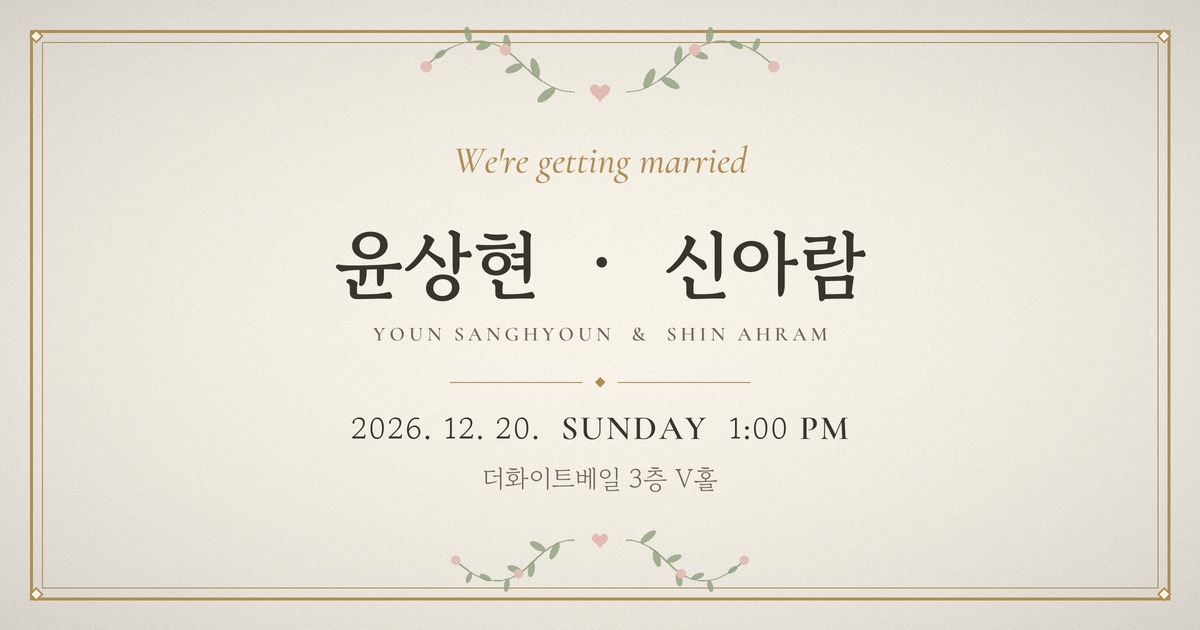
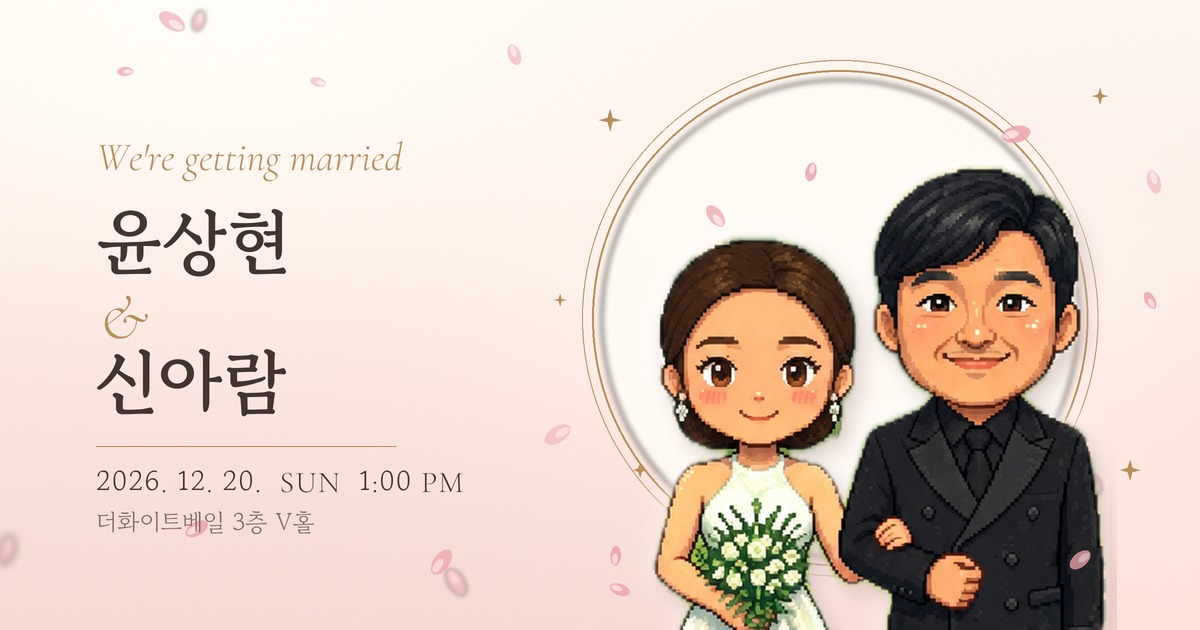
💐 대표 주소 공유 썸네일: 봄빛 블러시 배경 + 신랑·신부 상반신(피사체 분리) + 세리프 타이포

diff --git a/index.html b/index.html
@@ -9,10 +9,10 @@
     <meta property="og:type" content="website">
     <meta property="og:title" content="윤상현 ♥ 신아람 결혼합니다">
     <meta property="og:description" content="2026.12.20 (일) 오후 1시 · 더화이트베일 3층 V홀">
-    <meta property="og:image" content="https://wedding-invitation-new-delta.vercel.app/images/og-main.jpg?v=1">
+    <meta property="og:image" content="https://wedding-invitation-new-delta.vercel.app/images/og-main.jpg?v=2">
     <meta property="og:image:width" content="1200">
     <meta property="og:image:height" content="630">
-    <meta property="og:image:alt" content="We're getting married · 윤상현 · 신아람 · 2026. 12. 20. SUNDAY 1:00 PM · 더화이트베일 3층 V홀">
+    <meta property="og:image:alt" content="We're getting married · 윤상현 &amp; 신아람 · 2026. 12. 20. SUN 1:00 PM · 더화이트베일 3층 V홀">
     <meta name="twitter:card" content="summary_large_image">
 
     <link rel="preconnect" href="https://fonts.googleapis.com">
